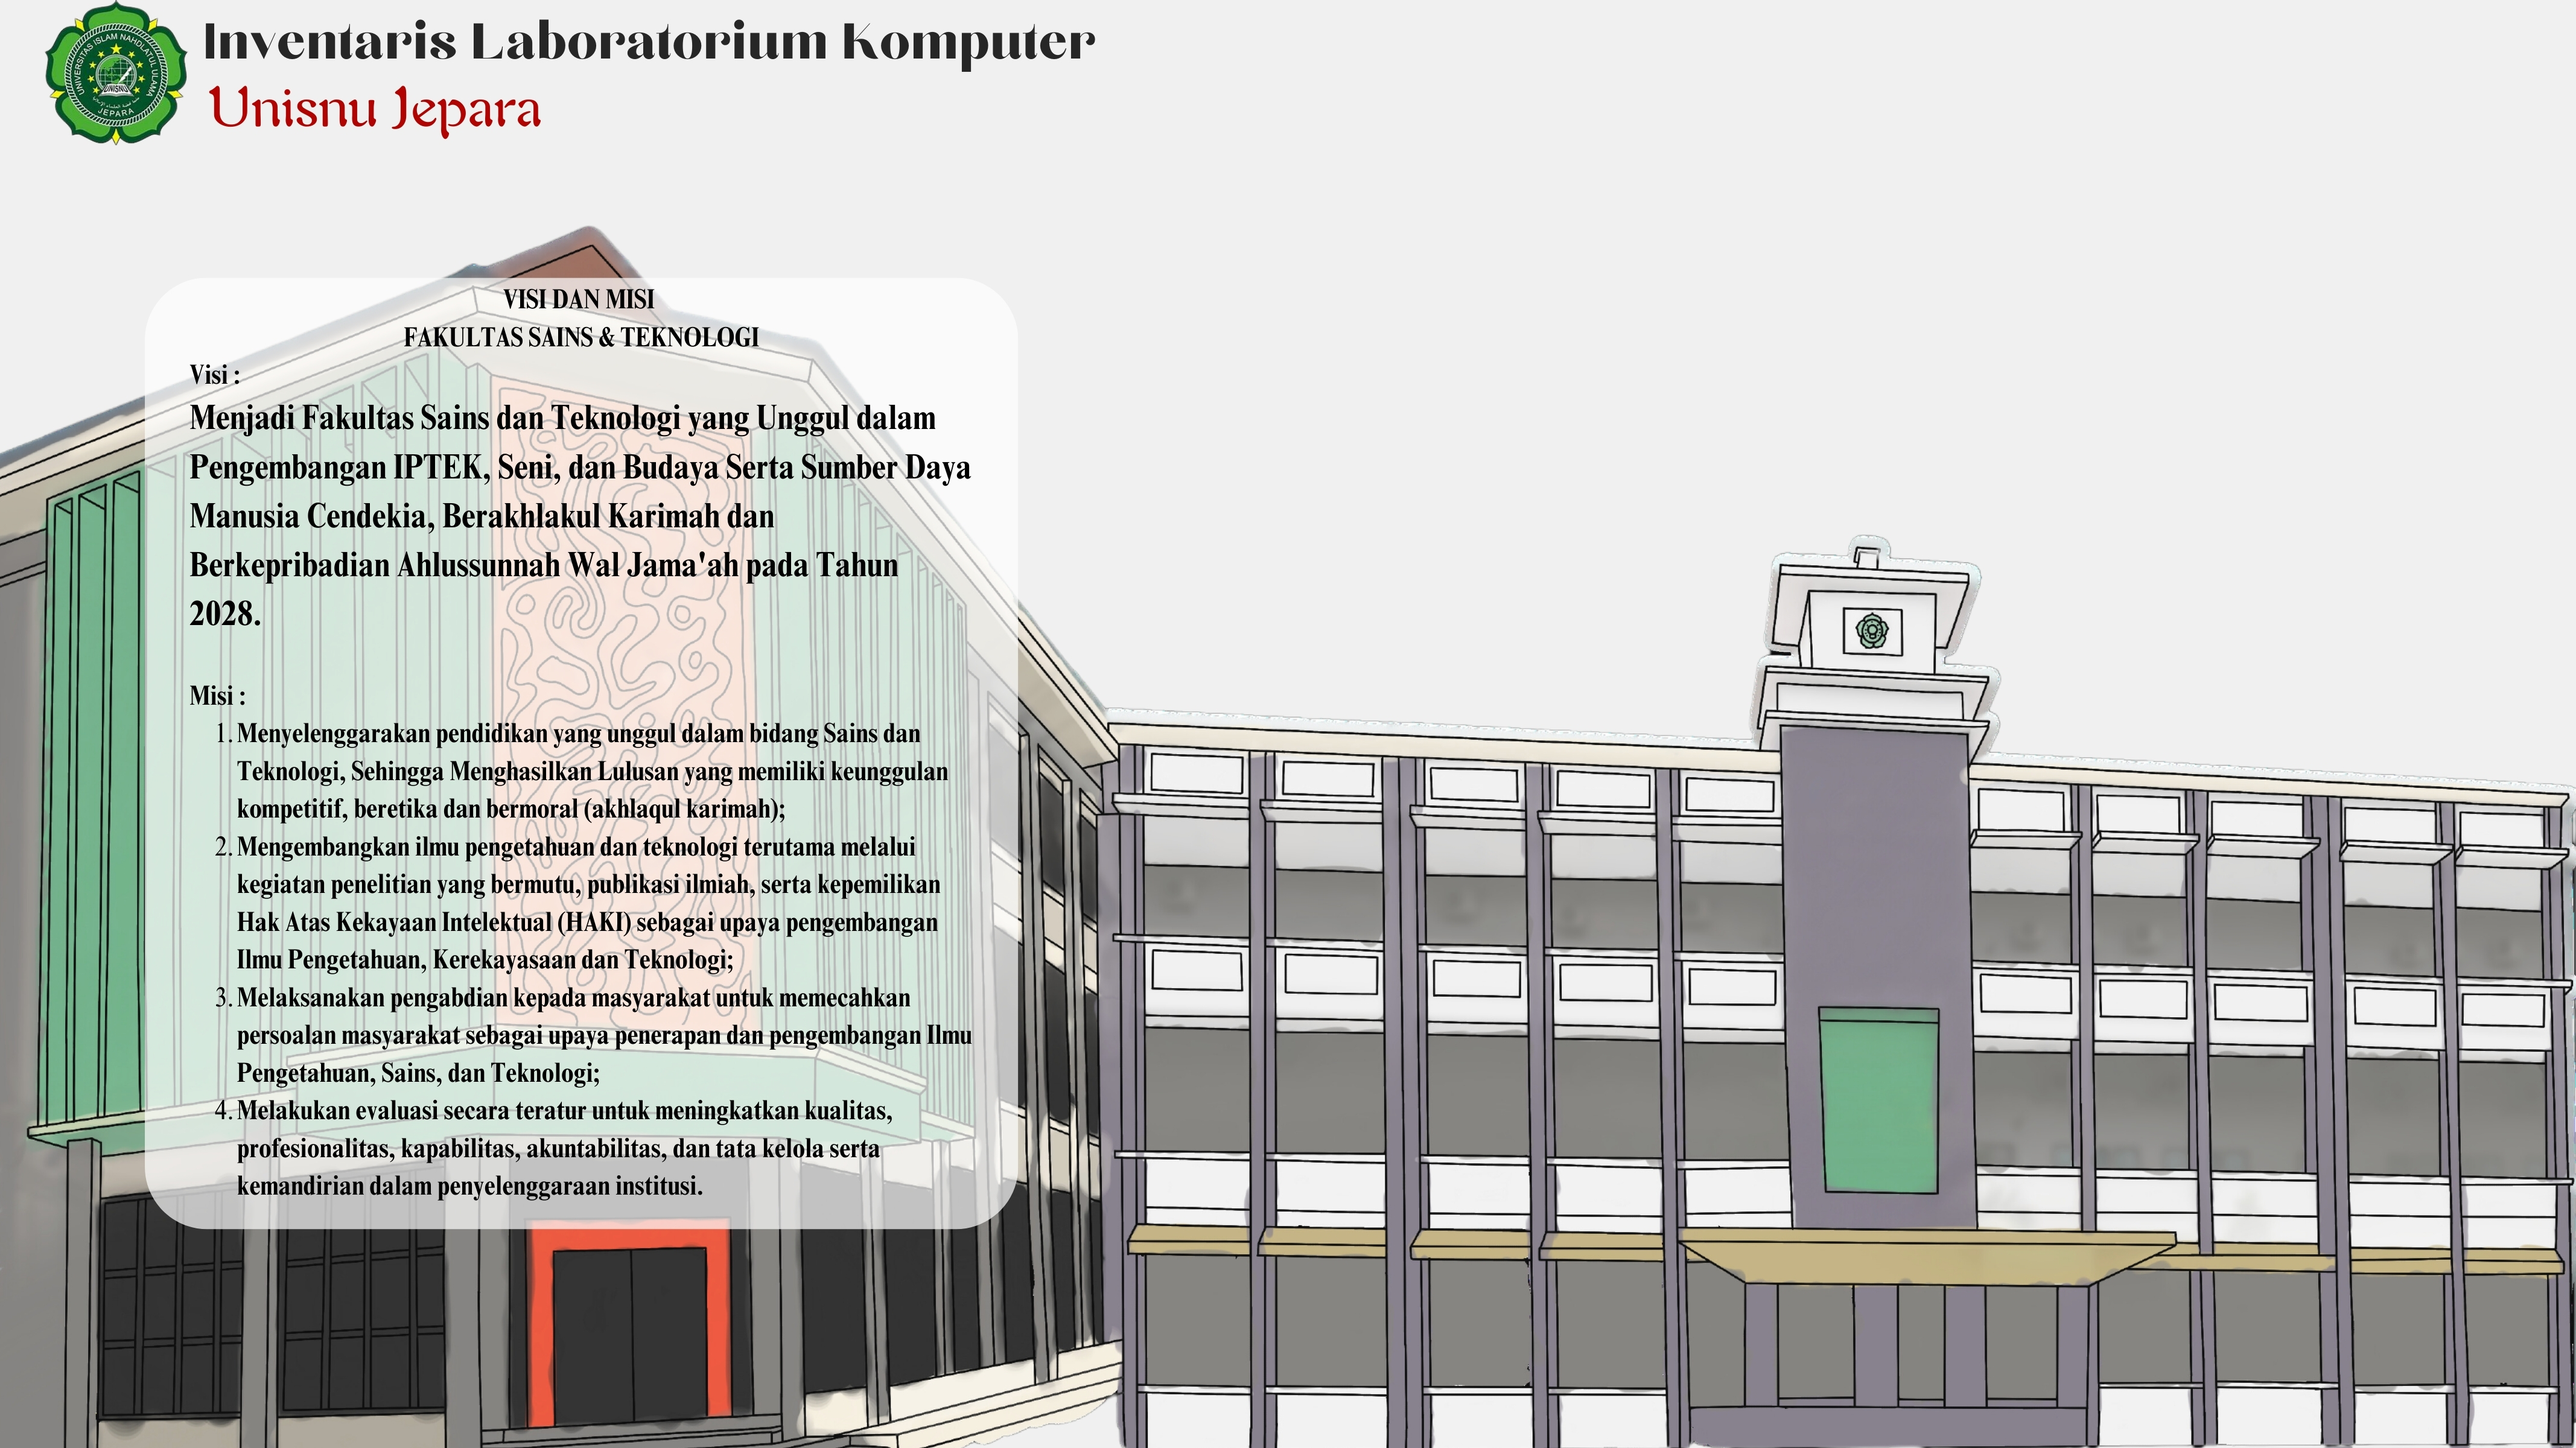
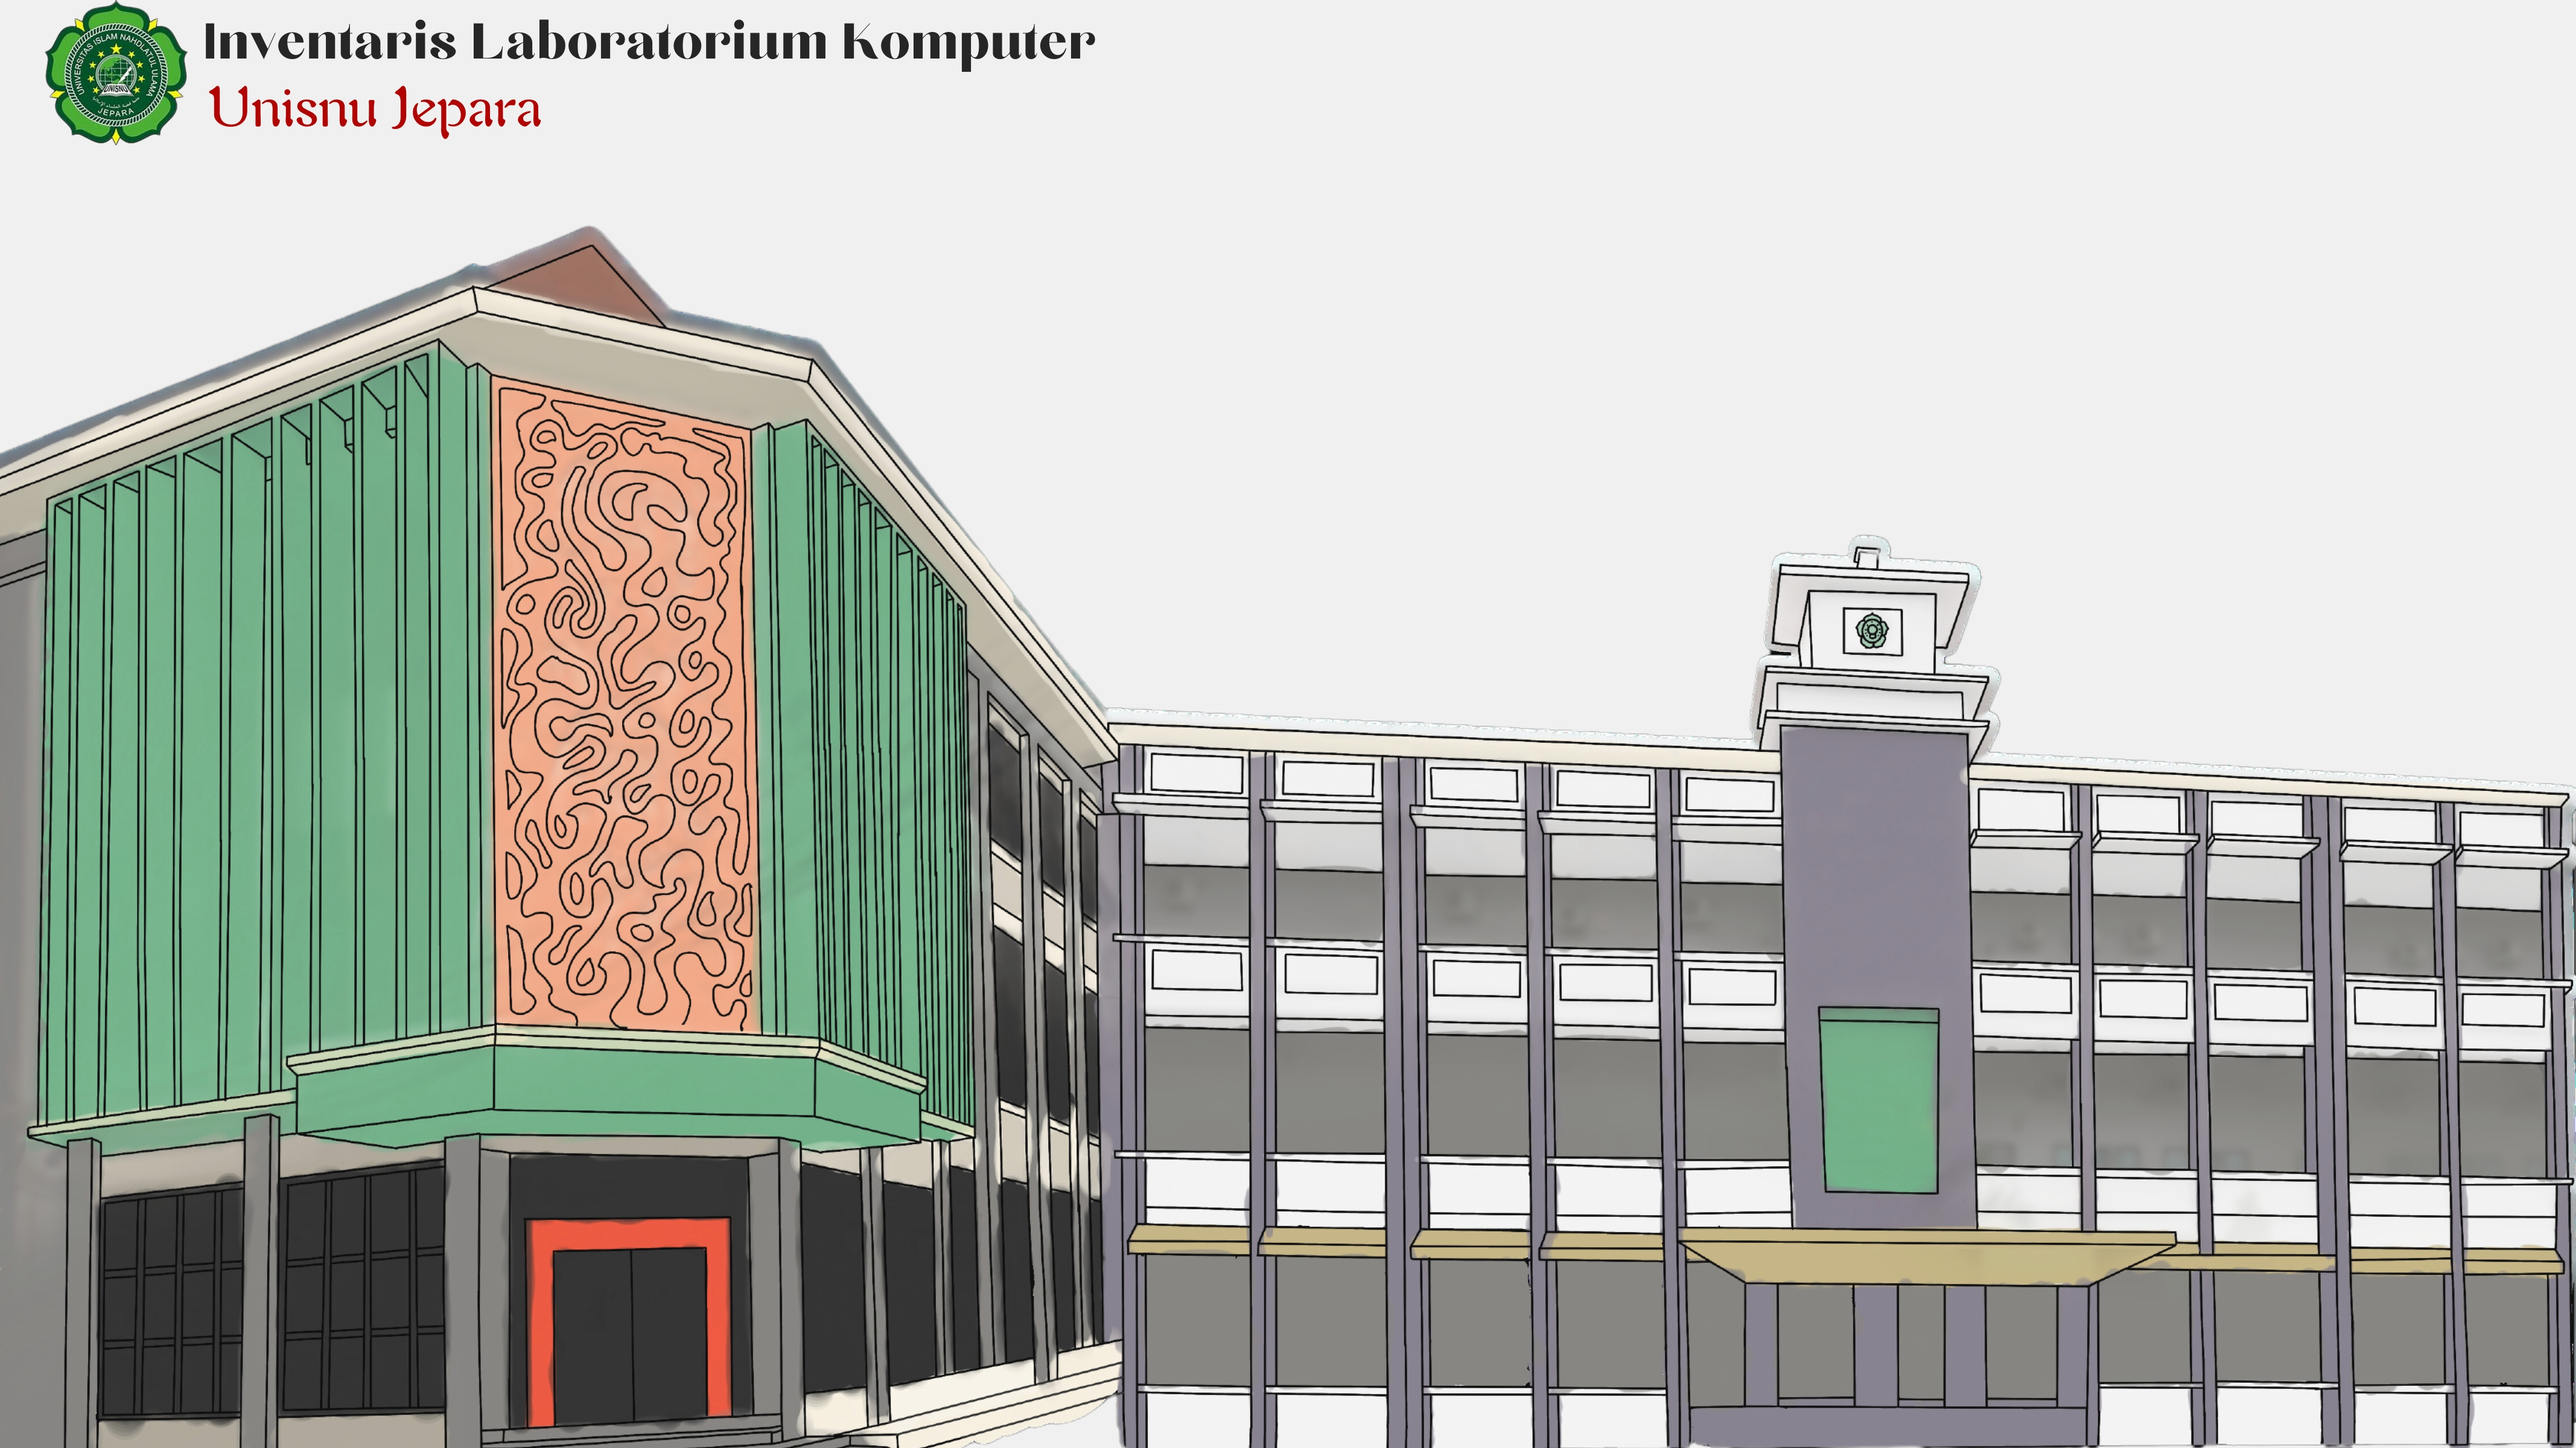
tampilan register

Changed region(s): [[0.0312, 0.1875, 0.405, 0.875]]

diff --git a/resources/views/welcome.blade.php b/resources/views/welcome.blade.php
@@ -1,54 +1,131 @@
 <!DOCTYPE html>
-<html lang="en">
+<html lang="id">
 <head>
   <meta charset="UTF-8" />
   <meta name="viewport" content="width=device-width, initial-scale=1.0" />
-  <title>Login</title>
-  <!-- Memanggil Tailwind CSS -->
+  <title>Login - Inventaris Lab Komputer</title>
+  <!-- Import Tailwind CSS -->
   <script src="https://cdn.tailwindcss.com"></script>
   <style>
-    /* Background yang sudah ada */
+    /* Background tetap sesuai yang sudah ada */
     body {
       background: url('/images/background.jpg') no-repeat center center fixed;
       background-size: cover;
-      background-position: center top; /* Geser ke atas */
+      background-position: center top;
     }
   </style>
 </head>
-<body class="flex items-center justify-center min-h-screen">
-  <!-- Menambahkan kelas margin kiri (ml-16) untuk menggeser container ke kana -->
-  <div class="w-full max-w-md p-6 ml-16 bg-white bg-opacity-80 shadow-md rounded-lg">
-    <h2 class="text-3xl font-bold text-red-600 mb-6 text-center">Access to the Platform</h2>
+<body class="flex items-center justify-center min-h-screen px-10">
 
-    <form action="#" method="POST">
-      <!-- Input Username dengan ikon -->
-      <div class="relative mb-4">
-        <span class="absolute left-4 top-1/2 transform -translate-y-1/2 text-black text-xl">👤</span>
-        <input type="text" placeholder="Username" class="w-full pl-12 pr-4 py-3 bg-red-200 rounded-full text-gray-700 focus:outline-none focus:ring-2 focus:ring-red-400" />
+  <!-- Container utama dengan grid -->
+  <div class="grid grid-cols-2 gap-12 w-full max-w-6xl">
+    
+    <!-- Bagian Visi & Misi -->
+    
+     
+      
+    <div class="bg-white bg-opacity-80 p-6 rounded-lg shadow-md max-w-lg mt-20 mx-auto">
+        <h3 class="text-center font-bold text-gray-800">Visi dan Misi</h3>
+        <h3 class="text-center font-bold text-gray-800">Fakultas Sains dan Teknologi</h3>
+        <h4 class="text-md font-semibold text-gray-700 mt-2">Visi:</h4>
+        <p class="text-gray-700">
+          Menjadi Fakultas Sains dan Teknologi yang Unggul dalam Pengembangan IPTEK, Seni, dan Budaya
+          serta Sumber Daya Manusia Cendekia, Berakhlakul Karimah, dan Berkepribadian Ahlussunnah Wal Jama’ah
+          pada Tahun 2028.
+        </p>
+
+        <h4 class="text-md font-semibold text-gray-700 mt-4">Misi:</h4>
+        <ul class="list-decimal ml-6 text-gray-700">
+          <li>Menyelenggarakan pendidikan unggul dalam bidang Sains dan Teknologi sehingga menghasilkan Lulusan yang memiliki keunggulan kompetitif, beretika dan bermoral (akhlaqul karimah).</li>
+          <li>Mengembangkan ilmu pengetahuan dan teknologi terutama melalui kegiatan penelitian yang bermutu,publikasi ilmiah,serta kepemilikan Hak atas kekayaan intelektual (HAKI) sebagai upaya pengembangan ilmu pengetahuan,kerekayasan dan Teknologi.</li>
+          <li>Melaksanakan pengabdian kepada masyarakat untuk memecahkan persoalan masyarakat sebagai upaya penerapandan pengembangan ilmu pengetahuan,sains,dan Teknologi.</li>
+          <li>Melakukan evaluasi secara teratur untuk meningkatkan kualitas,profesionalitas,kapabilitas,akuntabilitas,dan tata kelola serta kemandirian dalam penyelenggaraan instansi.</li>
+        </ul>
       </div>
+    </div>
 
-      <!-- Input Password dengan ikon -->
-      <div class="relative mb-4">
-        <span class="absolute left-4 top-1/2 transform -translate-y-1/2 text-black text-xl">👁🗨</span>
-        <input type="password" placeholder="Password" class="w-full pl-12 pr-4 py-3 bg-red-300 rounded-full text-gray-700 focus:outline-none focus:ring-2 focus:ring-red-400" />
-      </div>
+    <!-- Bagian Login -->
+    <div class="bg-white bg-opacity-80 p-8 rounded-lg shadow-md w-full max-w-md ml-auto">
+      <h2 class="text-2xl font-bold text-red-600 mb-6 text-center">Access to the Platform</h2>
 
-      <!-- Input Konfirmasi Password dengan ikon -->
-      <div class="relative mb-6">
-        <span class="absolute left-4 top-1/2 transform -translate-y-1/2 text-black text-xl">👁🗨</span>
-        <input type="password" placeholder="Konfirmasi Password" class="w-full pl-12 pr-4 py-3 bg-red-400 rounded-full text-gray-700 focus:outline-none focus:ring-2 focus:ring-red-400" />
-      </div>
+      <!-- Form Register (Di halaman Welcome) -->
+    
 
-      <!-- Tombol Sign Up -->
-      <button class="w-full py-3 bg-red-500 text-white rounded-full text-lg font-semibold hover:bg-red-600">
-        Sign Up
-      </button>
-    </form>
+      <form id="registerForm">
+        @csrf
+        <div class="relative mb-4">
+          <span class="absolute left-4 top-1/2 transform -translate-y-1/2 text-black text-xl">👤</span>
+          <input type="text" name="name" placeholder="Nama" class="w-full pl-12 pr-4 py-3 bg-red-200 rounded-full text-gray-700" required />
+        </div>
 
-    <p class="mt-4 text-gray-600 text-center">
-      Already Registered? 
-      <a href="#" class="text-red-600 font-bold">Login</a>
-    </p>
+        <div class="relative mb-4">
+          <span class="absolute left-4 top-1/2 transform -translate-y-1/2 text-black text-xl">📧</span>
+          <input type="email" name="email" placeholder="Email" class="w-full pl-12 pr-4 py-3 bg-red-200 rounded-full text-gray-700" required />
+        </div>
+
+        <div class="relative mb-4">
+          <span class="absolute left-4 top-1/2 transform -translate-y-1/2 text-black text-xl">🔒</span>
+          <input type="password" name="password" placeholder="Password" class="w-full pl-12 pr-4 py-3 bg-red-300 rounded-full text-gray-700" required />
+        </div>
+
+        <div class="relative mb-6">
+          <span class="absolute left-4 top-1/2 transform -translate-y-1/2 text-black text-xl">🔒</span>
+          <input type="password" name="password_confirmation" placeholder="Konfirmasi Password" class="w-full pl-12 pr-4 py-3 bg-red-400 rounded-full text-gray-700" required />
+        </div>
+
+        <button type="submit" class="w-full py-3 bg-red-500 text-white rounded-full text-lg font-semibold hover:bg-red-600">
+          Register
+        </button>
+
+        <p class="mt-4 text-gray-600 text-center">
+          Already Registered?  
+          <a href="{{ route('login') }}" class="text-red-600 font-bold">Login</a>
+        </p>
+
+      </form>
+
+      <!-- Notifikasi -->
+      <div id="registerMessage" class="mt-4 text-center font-bold"></div>
+    </div>
+
   </div>
+
+  <!-- Script AJAX untuk Register -->
+  <script>
+  $(document).ready(function() {
+    $('#registerForm').submit(function(event) {
+      event.preventDefault();
+
+      $.ajax({
+        url: "{{ route('register') }}",
+        type: "POST",
+        data: $(this).serialize(),
+        success: function(response) {
+          $('#registerMessage').html('<p class="text-green-600">Registrasi Berhasil! Mengalihkan ke login...</p>');
+          $('#registerForm')[0].reset();
+          
+          // Redirect ke halaman login setelah 2 detik
+          setTimeout(function() {
+            window.location.href = "{{ route('login') }}";
+          }, 2000);
+        },
+        error: function(xhr) {
+          let errors = xhr.responseJSON.errors;
+          let errorMessage = Object.values(errors).map(err => `<p class="text-red-600">${err}</p>`).join('');
+          $('#registerMessage').html(errorMessage);
+        }
+      });
+    });
+  });
+</script>
+
+
+      
+
+      </p>
+    </div>
+
+  </div>
+
 </body>
 </html>

diff --git a/resources/views/auth/register.blade.php b/resources/views/auth/register.blade.php
@@ -31,6 +31,10 @@
                 <input type="text" id="kode_unik" name="kode_unik" placeholder="Masukkan kode unik jika ada">
             </div>
             <button type="submit">Register</button>
+            <p class="mt-4 text-gray-600 text-center">
+                Already have an account? 
+                <a href="{{ route('login') }}" class="text-red-600 font-bold">Login</a>
+            </p>
         </form>
         
         @if ($errors->any())
@@ -38,6 +42,9 @@
                 {{ $errors->first() }}
             </div>
         @endif
+    </div>
+    <div>
+    
     </div>
 </body>
 </html>

diff --git a/routes/web.php b/routes/web.php
@@ -86,3 +86,7 @@ Route::middleware(['auth'])->group(function () {
 });
 
 Route::get('/get-labs/{fakultasId}', [LabController::class, 'getLabs']);
+
+Route::get('/dashboard', function () {
+    return view('dashboard'); // Pastikan file resources/views/dashboard.blade.php ada
+})->name('dashboard');
